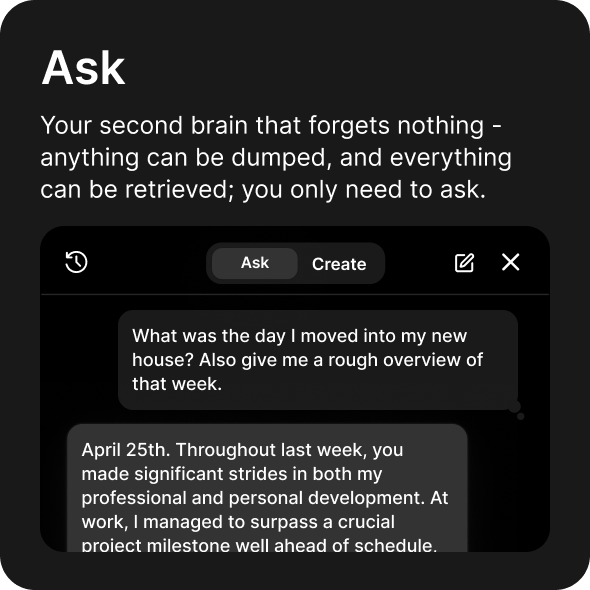
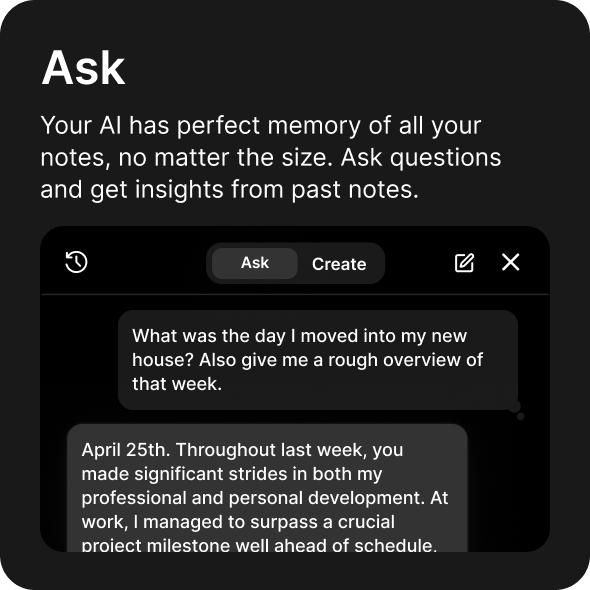
onboarding fixes

Changed region(s): [[0.061, 0.1831, 0.8847, 0.3661]]

diff --git a/src/app/onboarding/email/index.tsx b/src/app/onboarding/email/index.tsx
@@ -35,6 +35,7 @@ const Email = () => {
     const {userEmail, referrer, language, age_group, note_taking_frequency, revisit_frequency, note_types} = useSelector((state: RootState) => state.onboardingData);
     const [validationError, setValidationError]:any = useState(false)
     const [emailText, setEmailText] = useState(userEmail ? userEmail : '')
+    const [isEmail, setIsEmail] = useState(false)
 
     // const checkNotification = async (type: 'morning' | 'evening') => {
     //     getNotification(type).then((response) => {
@@ -235,10 +236,10 @@ const Email = () => {
             
                 <View>
                     <View style={styles.mainTextContainer}>
-                        <Text style={styles.mainText}>Enter your email</Text>
+                        <Text style={styles.mainText}>{isEmail ? 'Enter your email' : 'Create your account'}</Text>
                     </View>
 
-                    <View style={{ paddingHorizontal: 16, paddingBottom: 24 }}>
+                    {isEmail && <View style={{ paddingHorizontal: 16, paddingBottom: 24 }}>
                         <TextField
                           style={{marginTop:0,flexDirection:'column'}}
                           inputStyle={{ height: 48, color:Colors.text, borderRadius: 16, borderWidth: 0, backgroundColor:Colors.bgColor7 }}
@@ -266,9 +267,9 @@ const Email = () => {
                                 <Text style={{color:Colors.redWithOpacity(1),fontFamily:'Primary',fontSize:14}}>{emailError}</Text>
                             </Text>
                         )}
-                    </View>
+                    </View>}
                     
-                    <View style={styles.buttonContainer1}>
+                    {isEmail ? <View style={styles.buttonContainer1}>
                         <LargeButton
                             underlayColor={isLightMode ? Colors.blackWithOpacity(0.8) : Colors.blackWithOpacity(0.3)}
                             style={[styles.button, { backgroundColor: Colors.settingsBtnBg }]}
@@ -277,11 +278,41 @@ const Email = () => {
                             isLoading={loading}
                             color={Colors.text4}
                         />
-                    </View>
+                    </View> : <View style={styles.buttonContainer1}>
+                        <LargeButton
+                            underlayColor={Colors.blackWithOpacity(0.05)}
+                            style={[styles.button, { backgroundColor: Colors.bgColor, borderColor: Colors.grey4, borderWidth: 1 }]}
+                            onPress={() => setIsEmail(true)}
+                            text="Continue with Email"
+                            color={Colors.black2}
+                            centerIcon={LandingSvg.emailIcon?.replace('white', Colors.text)}
+                        />
+                    </View>}
+                    {isIOS && !isEmail && <View style={styles.buttonContainer1}>
+                        <LargeButton
+                            underlayColor={Colors.blackWithOpacity(0.05)}
+                            style={[styles.button, { backgroundColor: Colors.bgColor, borderColor: Colors.grey4, borderWidth: 1 }]}
+                            onPress={signInAppleAsync}
+                            text="Continue with Apple"
+                            isLoading={false}
+                            color={Colors.black2}
+                            centerIcon={LandingSvg.apple?.replace('white', Colors.text)}
+                        />
+                    </View>}
+                    {!isEmail && <View style={styles.buttonContainer1}>
+                        <LargeButton
+                            underlayColor={Colors.blackWithOpacity(0.05)}
+                            style={[styles.button, { backgroundColor: Colors.bgColor, borderColor: Colors.grey4, borderWidth: 1 }]}
+                            onPress={onGoogleLogin}
+                            text="Continue with Google"
+                            isLoading={false}
+                            color={Colors.black2}
+                            centerIcon={LandingSvg.google}
+                        />
+                    </View>}
                 </View>
-            
         </KeyboardAvoidingView>
-        <View style={styles.footerContainer}>
+        {/* <View style={styles.footerContainer}>
             {isIOS && <View style={styles.buttonContainer1}>
                 <LargeButton
                     underlayColor={Colors.blackWithOpacity(0.05)}
@@ -304,7 +335,7 @@ const Email = () => {
                     centerIcon={LandingSvg.google}
                 />
             </View>
-        </View>
+        </View> */}
     </SafeAreaView>
     </TouchableWithoutFeedback>
   )
@@ -346,10 +377,10 @@ const useStyles = () => {
             flexDirection:'row',
         },
         footerContainer: {
-            position: 'absolute',
-            bottom: 32,
-            right: 0,
-            left: 0
+            // position: 'absolute',
+            // bottom: 32,
+            // right: 0,
+            // left: 0
         }
     }), [Colors]);
 }

diff --git a/src/app/onboarding/pricing/index.tsx b/src/app/onboarding/pricing/index.tsx
@@ -89,7 +89,7 @@ const Pricing = () => {
         if (selectedPlan == 'yearly') {
           analytics().logEvent("onboarding_free_trial_initiated").catch(e=>{console.log(e)})
         } else {
-          analytics().logEvent("onboarding_monthly_subscription_initiated").catch(e=>{console.log(e)})
+          analytics().logEvent("onboarding_monthly_sub_initiated").catch(e=>{console.log(e)})
         }
         const productToBuy = selectedPlan == 'monthly' ? pack[1]?.product : pack[4]?.product;
         const { customerInfo } = await Purchases.purchaseStoreProduct(productToBuy);
@@ -102,8 +102,8 @@ const Pricing = () => {
             analytics()
               .logEvent(
                 selectedPlan == "monthly"
-                  ? "onboarding_monthly_subscription_success"
-                  : "onboarding_yearly_subscription_success"
+                  ? "onboarding_monthly_sub_success"
+                  : "onboarding_yearly_sub_success"
               )
               AppEventsLogger.logPurchase(
                 selectedPlan == "monthly"
@@ -210,7 +210,7 @@ const Pricing = () => {
         },
         {
           id: "3",
-          title: "After day 7 - Billing starts",
+          title: "After day 7",
           description: `Your free trial ends and you'll be charged, cancel anytime before.`,
           icon: <SvgXml xml={onboardingSvg.crown?.replace('black', Colors.black2)} style={styles.icon} />,
           height: 45,
@@ -247,14 +247,17 @@ const Pricing = () => {
     const currencySymbol=match?match[0]?.trim():"$";
 
     const priceMonth=(pack[1]?.product?.price||9.99).toFixed(2);
+    const priceAnnual=(pack[4]?.product?.price||49.99).toFixed(2);
     const priceAnnualMonthly=((pack[4]?.product?.price||49.99)/12).toFixed(2);
 
     let priceAnnualMonthlyString=`${currencySymbol}${priceAnnualMonthly}`;
     let priceMonthString=`${currencySymbol}${priceMonth}`;
+    let priceAnnualString=`${currencySymbol}${priceAnnual}`;
 
     if (priceString.startsWith('Rp')){
       priceMonthString = priceMonthString+'ribu';
       priceAnnualMonthlyString = priceAnnualMonthlyString+'ribu';
+      priceAnnualString = priceAnnualString+'ribu';
     }
 
   return (
@@ -346,10 +349,10 @@ const Pricing = () => {
             </View>
 
 
-            <View style={{ flexDirection: 'row', gap: 8, justifyContent: 'center' }}>
+            {selectedPlan == 'yearly' ? <View style={{ flexDirection: 'row', gap: 8, justifyContent: 'center', alignItems: 'center'}}>
                 <SvgXml xml={onboardingSvg.tick?.replace('black', Colors.black2)} /> 
-                <Text style={{ fontFamily: 'Primary-Semibold', fontSize: 14, color: Colors.black2 }}>Cancel anytime</Text>
-            </View>
+                <Text style={{ fontFamily: 'Primary-Semibold', fontSize: 14, color: Colors.black2 }}>No Payment Due Now</Text>
+            </View> : <View style={{marginTop: 17}}></View> }
             <View style={styles.buttonContainer1}>
                 <LargeButton
                     underlayColor={Colors.blackWithOpacity(0.8)}
@@ -363,6 +366,9 @@ const Pricing = () => {
                     <Text style={{color:Colors.redWithOpacity(1),fontFamily:'Primary',fontSize:12,marginTop:8}}>{error}</Text>
                   )}
             </View>
+            {selectedPlan == 'yearly' ? <View style={{marginTop:10}}>
+              <Text style={[styles.footerText1,{color:Colors.text10}]}>{`7 days free, then ${priceAnnualString} per year (${priceAnnualMonthlyString}/mo)`}</Text>
+            </View> : <View style={{marginTop:25}}></View> }
             <View style={styles.termsContainer}>
               <Touchable onPress={()=>webBrowser.openBrowserAsync('https://www.apple.com/legal/internet-services/itunes/dev/stdeula/',{toolbarColor:isLightMode?'#fff':'#000'})}>
                 <Text style={[styles.footerText1,{color:Colors.blackWithOpacity(1)}]}>Terms of Service</Text>
@@ -519,6 +525,8 @@ const useStyles = () => {
         backgroundColor: Colors.bottomBarButtonBg1,
     },
     unselectedPlan: {
+        borderWidth: 2,
+        borderColor: Colors.bottomBarButtonBg1,
         backgroundColor: Colors.bottomBarButtonBg1,
     },
     planTitle: {

diff --git a/src/assets/svg/LandingSvg.tsx b/src/assets/svg/LandingSvg.tsx
@@ -15,6 +15,7 @@ export const LandingSvg={
     <path d="M6.83751 6.96965L1 2.8C1 1.80589 1.80589 1 2.8 1H13.2C14.1941 1 15 1.80589 15 2.8L9.16246 6.96965C8.46707 7.46636 7.5329 7.46636 6.83751 6.96965Z" stroke="#0D0D0D" stroke-width="1.5"/>
     </svg>
     `,
+    emailIcon: `<svg width="16" height="12" viewBox="0 0 16 12" fill="none" xmlns="http://www.w3.org/2000/svg" class="mr-1.5"><path class="" d="M2.15005 11.3996C1.78755 11.3996 1.47192 11.2652 1.20317 10.9965C0.934424 10.7277 0.800049 10.4121 0.800049 10.0496V1.94961C0.800049 1.58711 0.934424 1.27148 1.20317 1.00273C1.47192 0.733984 1.78755 0.599609 2.15005 0.599609H13.85C14.2213 0.599609 14.5391 0.733984 14.8035 1.00273C15.0679 1.27148 15.2 1.58711 15.2 1.94961V10.0496C15.2 10.4121 15.0679 10.7277 14.8035 10.9965C14.5391 11.2652 14.2213 11.3996 13.85 11.3996H2.15005ZM13.85 3.54336L8.3563 6.69336C8.2998 6.73086 8.24042 6.75898 8.17817 6.77773C8.11592 6.79648 8.05655 6.80586 8.00005 6.80586C7.93755 6.80586 7.8813 6.79648 7.8313 6.77773C7.7813 6.75898 7.72555 6.73273 7.66405 6.69898L2.15005 3.54336V10.0496H13.85V3.54336ZM8.00005 5.30586L13.8313 1.94961H2.18755L8.00005 5.30586ZM2.15005 3.30148V3.47005V2.48398V2.49336V1.94961V2.49242V2.48398V3.47173V3.30298V10.0496V3.30148Z" fill="white"></path></svg>`,
     logo:`<svg width="57" height="57" viewBox="0 0 57 57" fill="none" xmlns="http://www.w3.org/2000/svg" xmlns:xlink="http://www.w3.org/1999/xlink">
     <rect width="57" height="57" fill="url(#pattern0_2590_7817)"/>
     <defs>

diff --git a/src/components/LargeButton/index.tsx b/src/components/LargeButton/index.tsx
@@ -23,9 +23,9 @@ const LargeButton = ({text, onPress, style, underlayColor, color, isLoading=fals
       style={style}
       onPress={onPress}>
         { !isLoading ? 
-            <View style={{ flex: 1, flexDirection: 'row', justifyContent: 'space-between', marginHorizontal: 12 }}>
+            <View style={{ flex: 1, flexDirection: 'row', justifyContent: 'space-between', marginHorizontal: 12, alignItems: 'center' }}>
               {startIcon ? <SvgXml xml={startIcon} />  : <View style={{ width: 24}}></View> }
-              <View style={{ flexDirection: 'row', gap: 10, justifyContent: 'center' }}>
+              <View style={{ flexDirection: 'row', gap: 10, justifyContent: 'center', alignItems: 'center' }}>
                 {centerIcon && <SvgXml xml={centerIcon} /> }
                 <Text style={[{fontFamily:'Primary-Semibold',fontSize:16, alignSelf: 'center' },color?{color}:{color:Colors.grey2WithOpacity(1)}]}>
                     {text}

diff --git a/src/app/onboarding/meetings/index.tsx b/src/app/onboarding/meetings/index.tsx
@@ -50,7 +50,7 @@ const Meetings = () => {
         },
         {
           id: "3",
-          image: <Image source={isLightMode ? require('../../../assets/images/meetings3.png') : require('../../../assets/images/meeting3-dark.png')} style={styles.meetingImage3} />,
+          image: <Image source={isLightMode ? require('../../../assets/images/meetings3.png') : require('../../../assets/images/meetings3-dark.png')} style={styles.meetingImage3} />,
         },
     ];
 

diff --git a/src/app/onboarding/free-trial/index.tsx b/src/app/onboarding/free-trial/index.tsx
@@ -119,7 +119,7 @@ const useStyles = () => {
         },
         footerContainer: {
             position: 'absolute',
-            bottom: 20,
+            bottom: 6,
             right: 0,
             left: 0
         }
